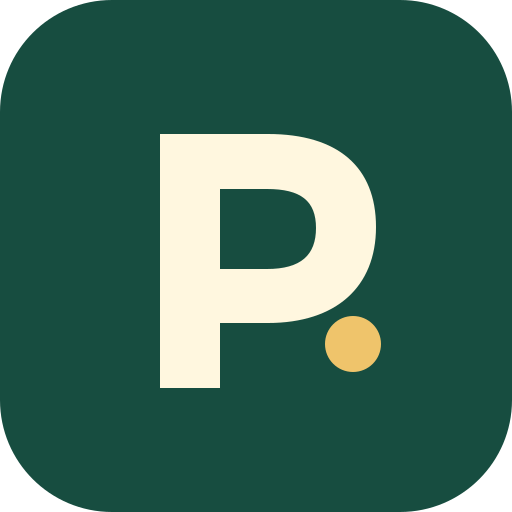
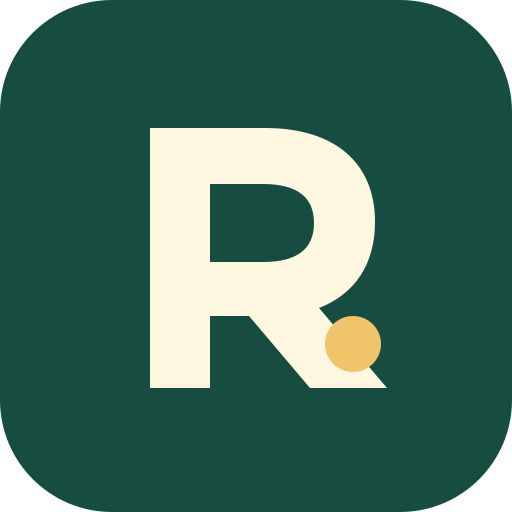
Rename app to Roam
Refs #19. Update public branding, PWA metadata, icons and email copy. Preserve legacy session and preference storage keys. Lint/build and four desktop/mobile browser checks pass.

diff --git a/src/features/trips/App.tsx b/src/features/trips/App.tsx
@@ -218,7 +218,7 @@ export function App() {
     <>
       <header>
         <a href="#/trips" onClick={() => selectTrip(null)}>
-          PaiKan
+          Roam
         </a>
         <Button
           type="button"
@@ -323,7 +323,7 @@ export function App() {
             <h2>{t("Join a trip", "เข้าร่วมทริป")}</h2>
             <p>
               {t(
-                "Install PaiKan first if you want to use it from your Home Screen. Open this invitation inside the installed app. Browser and installed app sessions may differ.",
+                "Install Roam first if you want to use it from your Home Screen. Open this invitation inside the installed app. Browser and installed app sessions may differ.",
                 "ติดตั้งแอปก่อน แล้วเปิดคำเชิญในแอปที่ติดตั้ง บัญชีในเบราว์เซอร์อาจต่างจากแอป",
               )}
             </p>

diff --git a/e2e/trip-flow.spec.ts b/e2e/trip-flow.spec.ts
@@ -445,7 +445,7 @@ test("mocked enrolled itinerary and expense flow; keyboard and labels; preview c
   const fixtureState = await installFixture(page);
   await page.goto("/");
   await page.keyboard.press("Tab");
-  await expect(page.getByRole("link", { name: "PaiKan" })).toBeFocused();
+  await expect(page.getByRole("link", { name: "Roam" })).toBeFocused();
   await openTrip(page);
   await expect(
     page

diff --git a/supabase/templates/change-email.html b/supabase/templates/change-email.html
@@ -1,4 +1,4 @@
-<h2>Confirm your PaiKan email</h2>
-<p>Enter this six-digit code in PaiKan to confirm this email address:</p>
+<h2>Confirm your Roam email</h2>
+<p>Enter this six-digit code in Roam to confirm this email address:</p>
 <p style="font-size: 28px; font-weight: bold; letter-spacing: 6px">{{ .Token }}</p>
 <p>If you did not request this change, you can ignore this email.</p>

diff --git a/supabase/templates/confirm-signup.html b/supabase/templates/confirm-signup.html
@@ -1,4 +1,4 @@
-<h2>Your PaiKan sign-in code</h2>
-<p>Enter this six-digit code in PaiKan to confirm your email:</p>
+<h2>Your Roam sign-in code</h2>
+<p>Enter this six-digit code in Roam to confirm your email:</p>
 <p style="font-size: 28px; font-weight: bold; letter-spacing: 6px">{{ .Token }}</p>
 <p>If you did not request this code, you can ignore this email.</p>

diff --git a/supabase/templates/magic-link.html b/supabase/templates/magic-link.html
@@ -1,4 +1,4 @@
-<h2>Your PaiKan sign-in code</h2>
-<p>Enter this six-digit code in PaiKan to sign in:</p>
+<h2>Your Roam sign-in code</h2>
+<p>Enter this six-digit code in Roam to sign in:</p>
 <p style="font-size: 28px; font-weight: bold; letter-spacing: 6px">{{ .Token }}</p>
 <p>If you did not request this code, you can ignore this email.</p>

diff --git a/vite.config.ts b/vite.config.ts
@@ -11,8 +11,8 @@ export default defineConfig({
       registerType: "prompt",
       injectRegister: "auto",
       manifest: {
-        name: "PaiKan",
-        short_name: "PaiKan",
+        name: "Roam",
+        short_name: "Roam",
         description: "Every day, together.",
         start_url: "/",
         scope: "/",

diff --git a/index.html b/index.html
@@ -19,7 +19,7 @@
     <meta name="referrer" content="no-referrer" />
     <link rel="icon" type="image/svg+xml" href="/icon.svg" />
     <link rel="apple-touch-icon" href="/apple-touch-icon.png" />
-    <title>PaiKan</title>
+    <title>Roam</title>
   </head>
   <body>
     <div id="app"></div>

diff --git a/README.md b/README.md
@@ -1,6 +1,6 @@
-# PaiKan — M1 through M4 and Phase 1
+# Roam — M1 through M4 and Phase 1
 
-PaiKan (ไปกัน, “Let's go together”) is a Preact/TypeScript PWA for small group trips. Travelers join through an expiring QR invitation, receive a persistent Supabase anonymous session, and wait for organizer approval. Approved travelers share an itinerary, arrival check-ins, and expenses with deterministic whole-unit splits and suggested settlements. The dashboard keeps one trip workspace open at a time. Itinerary and expense data can be cached on the device, and check-ins/expenses created offline are queued for inspection and retry when connectivity returns. English/Thai labels, 18px text and 56px buttons are included. No identity is created on launch.
+Roam is a Preact/TypeScript PWA for small group trips. Travelers join through an expiring QR invitation, receive a persistent Supabase anonymous session, and wait for organizer approval. Approved travelers share an itinerary, arrival check-ins, and expenses with deterministic whole-unit splits and suggested settlements. The dashboard keeps one trip workspace open at a time. Itinerary and expense data can be cached on the device, and check-ins/expenses created offline are queued for inspection and retry when connectivity returns. English/Thai labels, 18px text and 56px buttons are included. No identity is created on launch.
 
 Phase 1 adds nightly city/date ranges and accommodation, daily activities with transport, expense date/time and correction, and trip archive/restore. The trip workspace presents Today, Plan, Expenses, and Trip sections for mobile use. Existing trip data remains readable after archiving; restoring a trip does not restore invitations that were revoked during archive.
 
@@ -44,7 +44,7 @@ For destination-local activity times, create new trips with an explicit IANA des
 
 For a hosted project that already ran migrations `001` through `004` manually, back up the database, review [migration `005`](supabase/migrations/202611060005_supervised_guest_recovery.sql), then run that SQL script once in the SQL Editor. Do not run it again. If the project tracks migrations with the Supabase CLI, check remote history and use `supabase db push` to apply pending migrations instead. Migration `005` adds organizer-supervised recovery for an existing trip member; it does not grant access based on a name or invitation QR. The organizer must verify the person through a trusted channel and link an eligible recovery request to that member.
 
-In Supabase Auth, require email confirmation and set the email OTP length to 6 digits with an expiry appropriate for your sign-in flow. Configure all three email templates used by the app: **Confirm signup**, **Magic Link**, and **Change Email**. Each template must display the code with `{{ .Token }}` (for example, “Your PaiKan code is {{ .Token }}”) so users can enter the six-digit code. The Change Email template is used when a QR guest upgrades the same anonymous account with `updateUser({ email })`; completing that email-change confirmation keeps the guest's existing user ID and trip memberships. Configure a custom SMTP provider with a verified sender address and domain before production. Supabase's built-in mailer is rate-limited and restricted to project team recipients, and SMTP providers commonly reject unverified From addresses or domains.
+In Supabase Auth, require email confirmation and set the email OTP length to 6 digits with an expiry appropriate for your sign-in flow. Configure all three email templates used by the app: **Confirm signup**, **Magic Link**, and **Change Email**. Each template must display the code with `{{ .Token }}` (for example, “Your Roam code is {{ .Token }}”) so users can enter the six-digit code. The Change Email template is used when a QR guest upgrades the same anonymous account with `updateUser({ email })`; completing that email-change confirmation keeps the guest's existing user ID and trip memberships. Configure a custom SMTP provider with a verified sender address and domain before production. Supabase's built-in mailer is rate-limited and restricted to project team recipients, and SMTP providers commonly reject unverified From addresses or domains.
 
 ## First organizer
 
@@ -83,6 +83,6 @@ For emails that currently link to a development domain, follow the [email code a
 
 ## Appearance and 21st design workflow
 
-Use the sun/moon header control to switch light/dark appearance. Before an explicit choice, PaiKan follows system appearance; a choice is stored under `paikan-theme` on the device. QR codes retain a white background in both modes.
+Use the sun/moon header control to switch light/dark appearance. Before an explicit choice, Roam follows system appearance; a choice is stored under `paikan-theme` on the device. QR codes retain a white background in both modes.
 
 The official `21st-dev/skill` workflow retrieved and integrated two real catalog sources: @shugar/button-1 (3824) and @campsite/theme-toggle (554). Shared Preact buttons now serve the trip workspace, Plan, expenses, account, guest recovery and email access. Account → Appearance offers Light/Dark/System; the header quick toggle remains. Source snapshots, attribution and adaptation details live in [vendor/21st](vendor/21st/README.md). React/Next/Radix-specific dependencies were replaced with native Preact controls; this does not migrate the app to Next.js. No API key is stored in the repository.

diff --git a/docs/user-stories.md b/docs/user-stories.md
@@ -1,12 +1,12 @@
-# PaiKan — product improvement stories
+# Roam — product improvement stories
 
-Scope: implementation following the product review of commit 9d8eb55. PaiKan (ไปกัน) means “Let's go together.” Keep Thai/English, quiet ivory/moss styling and accessible controls. Preserve existing login storage, IndexedDB and trip history through the rename. No live hosted data is modified as part of development.
+Scope: implementation following the product review of commit 9d8eb55. The app is now named Roam. Keep Thai/English, quiet ivory/moss styling and accessible controls. Preserve existing login storage, IndexedDB and trip history through the rename. No live hosted data is modified as part of development.
 
 ## US1 — recognizable identity
 
 GitHub issue: https://github.com/greatng/wherewhere/issues/1
 
-As a traveler, I see PaiKan in the app, browser title, install manifest and icon, so I recognize the same service on return. Existing sessions and local pending operations survive the name change; internal legacy storage keys are retained deliberately.
+As a traveler, I see Roam in the app, browser title, install manifest and icon, so I recognize the same service on return. Existing sessions and local pending operations survive the name change; internal legacy storage keys are retained deliberately.
 
 ## US2 — one trip at a time
 
@@ -80,11 +80,11 @@ As a traveler, I enter an activity date and local time without a timezone select
 Issue #10 was opened before implementation and updated when the product owner clarified local-time behavior. No hosted database was modified.
 
 
-## US11 — email codes that keep travelers in PaiKan
+## US11 — email codes that keep travelers in Roam
 
 GitHub issue: https://github.com/greatng/wherewhere/issues/11
 
-As a traveler, I receive a six-digit email code and enter it in PaiKan without following a development-domain link. Supabase email templates must display the token and its Site URL must point to the deployed app. Preserve guest identity during email enrollment. See [email setup](email-setup.md); hosted configuration remains an operator step.
+As a traveler, I receive a six-digit email code and enter it in Roam without following a development-domain link. Supabase email templates must display the token and its Site URL must point to the deployed app. Preserve guest identity during email enrollment. See [email setup](email-setup.md); hosted configuration remains an operator step.
 
 ## US12 — compact mobile workspace
 
@@ -139,3 +139,10 @@ As a traveler I can switch appearance using an accessible header control, retain
 GitHub issue: https://github.com/greatng/wherewhere/issues/18
 
 Retrieve real catalog source and integrate it into the running Preact app. Shared Button derives from @shugar/button-1 (3824); compact Light/Dark/System choices derive from @campsite/theme-toggle (554). Preserve native form behavior, SVG actions, destination time, focus, touch targets and explicit/system appearance persistence. Source snapshots and adaptation notes are retained in vendor/21st; credentials are not committed. This supersedes US17's authentication blocker.
+
+
+## US19 — Roam branding
+
+GitHub issue: https://github.com/greatng/wherewhere/issues/19
+
+Rename public branding, install metadata, icons and email copy to Roam. Preserve legacy `paikan-*` and `travelmate*` storage keys so existing sessions and preferences survive. Backend identifiers and migration history are unchanged.

diff --git a/docs/email-setup.md b/docs/email-setup.md
@@ -1,12 +1,12 @@
 # Supabase email code setup
 
-PaiKan signs users in with a six-digit email code. The app calls Supabase `signInWithOtp` and `verifyOtp`; guest email upgrades use `updateUser({ email })` and verify the email change on the same guest identity. The Supabase email messages must expose the token itself so users can enter it in the app.
+Roam signs users in with a six-digit email code. The app calls Supabase `signInWithOtp` and `verifyOtp`; guest email upgrades use `updateUser({ email })` and verify the email change on the same guest identity. The Supabase email messages must expose the token itself so users can enter it in the app.
 
 ## Auth URL configuration
 
 In Supabase Dashboard, open **Authentication → URL Configuration**:
 
-1. Set **Site URL** to the deployed PaiKan origin, including its scheme and host (for example, `https://your-deployed-host`). Use the actual deployment origin; do not leave `http://localhost:5173` as the production Site URL.
+1. Set **Site URL** to the deployed Roam origin, including its scheme and host (for example, `https://your-deployed-host`). Use the actual deployment origin; do not leave `http://localhost:5173` as the production Site URL.
 2. Add the same deployed origin to **Redirect URLs**. Add any separately used preview or local origins explicitly when needed. Do not use a broad wildcard for production.
 
 The current code verification flow does not depend on an email redirect link. These URL settings still establish the correct project default and support other Supabase auth redirects.
@@ -19,7 +19,7 @@ Open **Authentication → Email Templates** and set the body of each template be
 - **Magic Link** — sign-in when Supabase sends this template
 - **Change Email Address** — upgrading a guest identity with an email address
 
-Paste the corresponding body from [`supabase/templates`](../supabase/templates). Each message contains `{{ .Token }}` and no confirmation URL. Keep the token placeholder intact. A link template using `{{ .ConfirmationURL }}` will not match PaiKan's code-entry screen.
+Paste the corresponding body from [`supabase/templates`](../supabase/templates). Each message contains `{{ .Token }}` and no confirmation URL. Keep the token placeholder intact. A link template using `{{ .ConfirmationURL }}` will not match Roam's code-entry screen.
 
 ## OTP and SMTP settings
 

diff --git a/.21st/DESIGN.md b/.21st/DESIGN.md
@@ -1,4 +1,4 @@
-# PaiKan design context
+# Roam design context
 
 Preact/TypeScript travel PWA. Compact Japanese-inspired layout with ivory/moss light colors and charcoal/moss dark colors. Tokens live in `src/style.css`.
 
